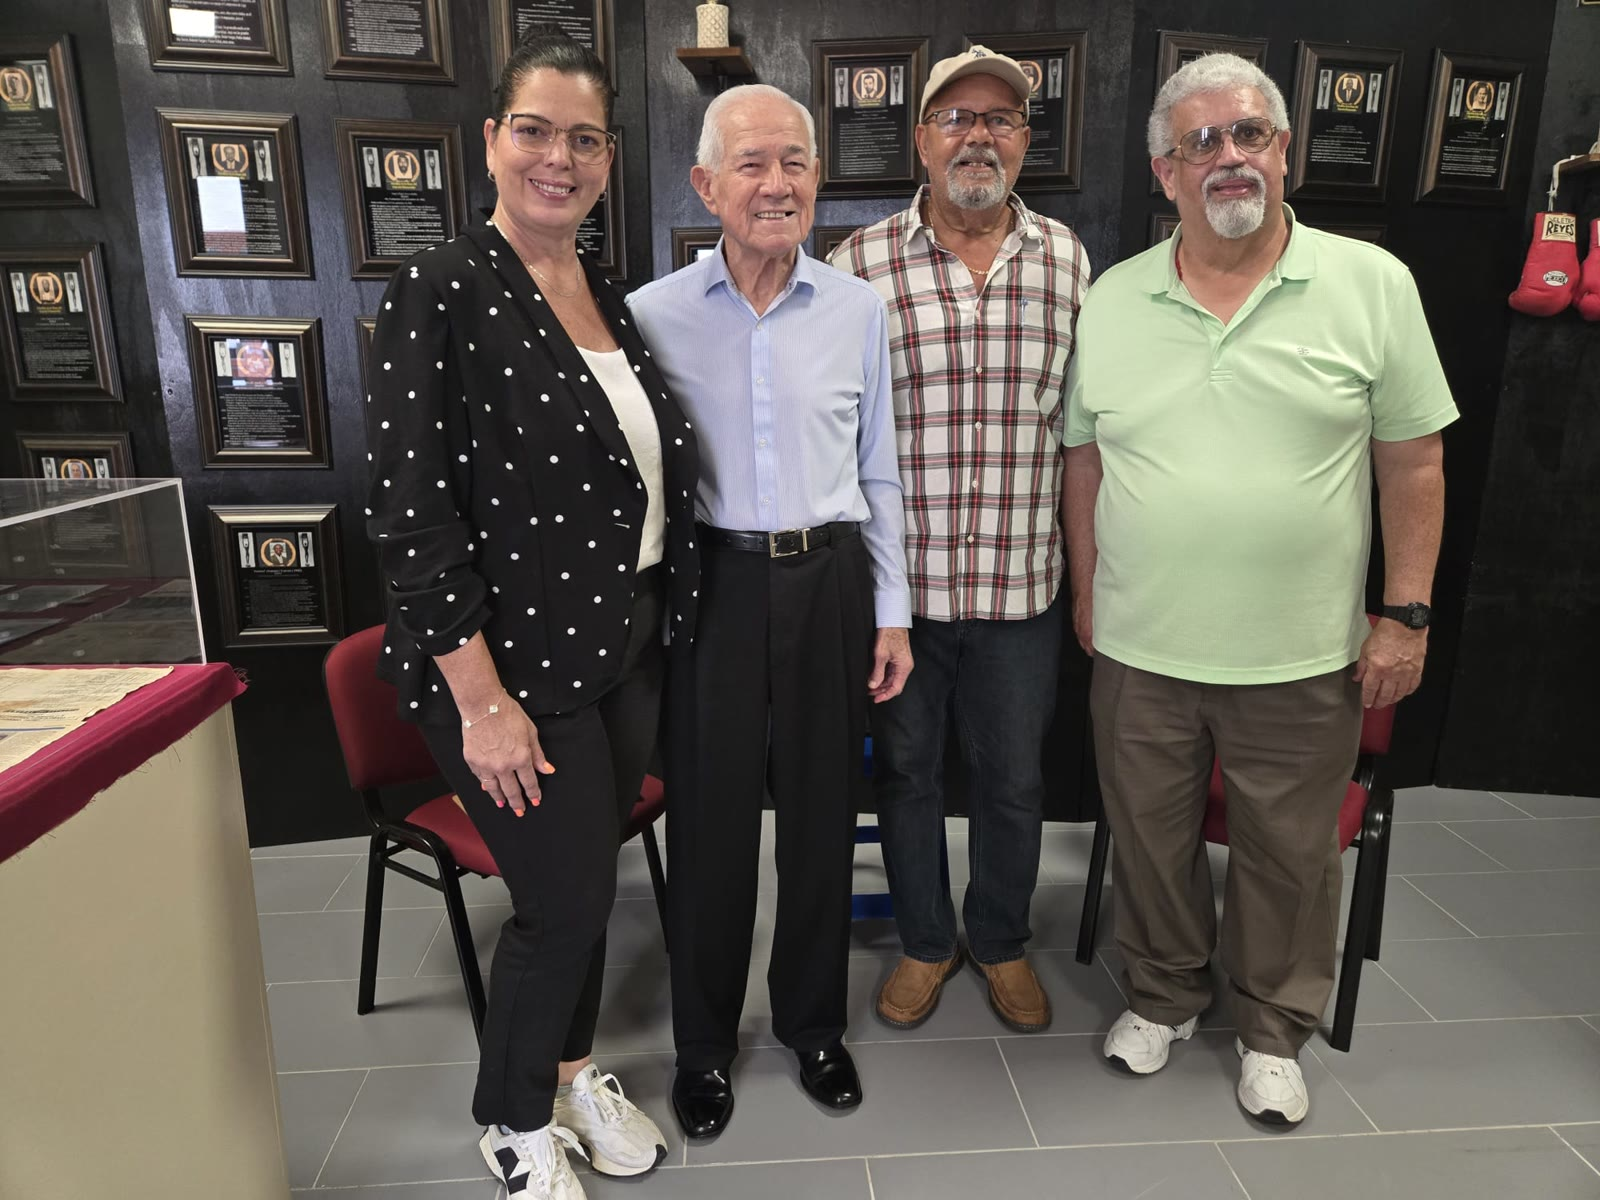
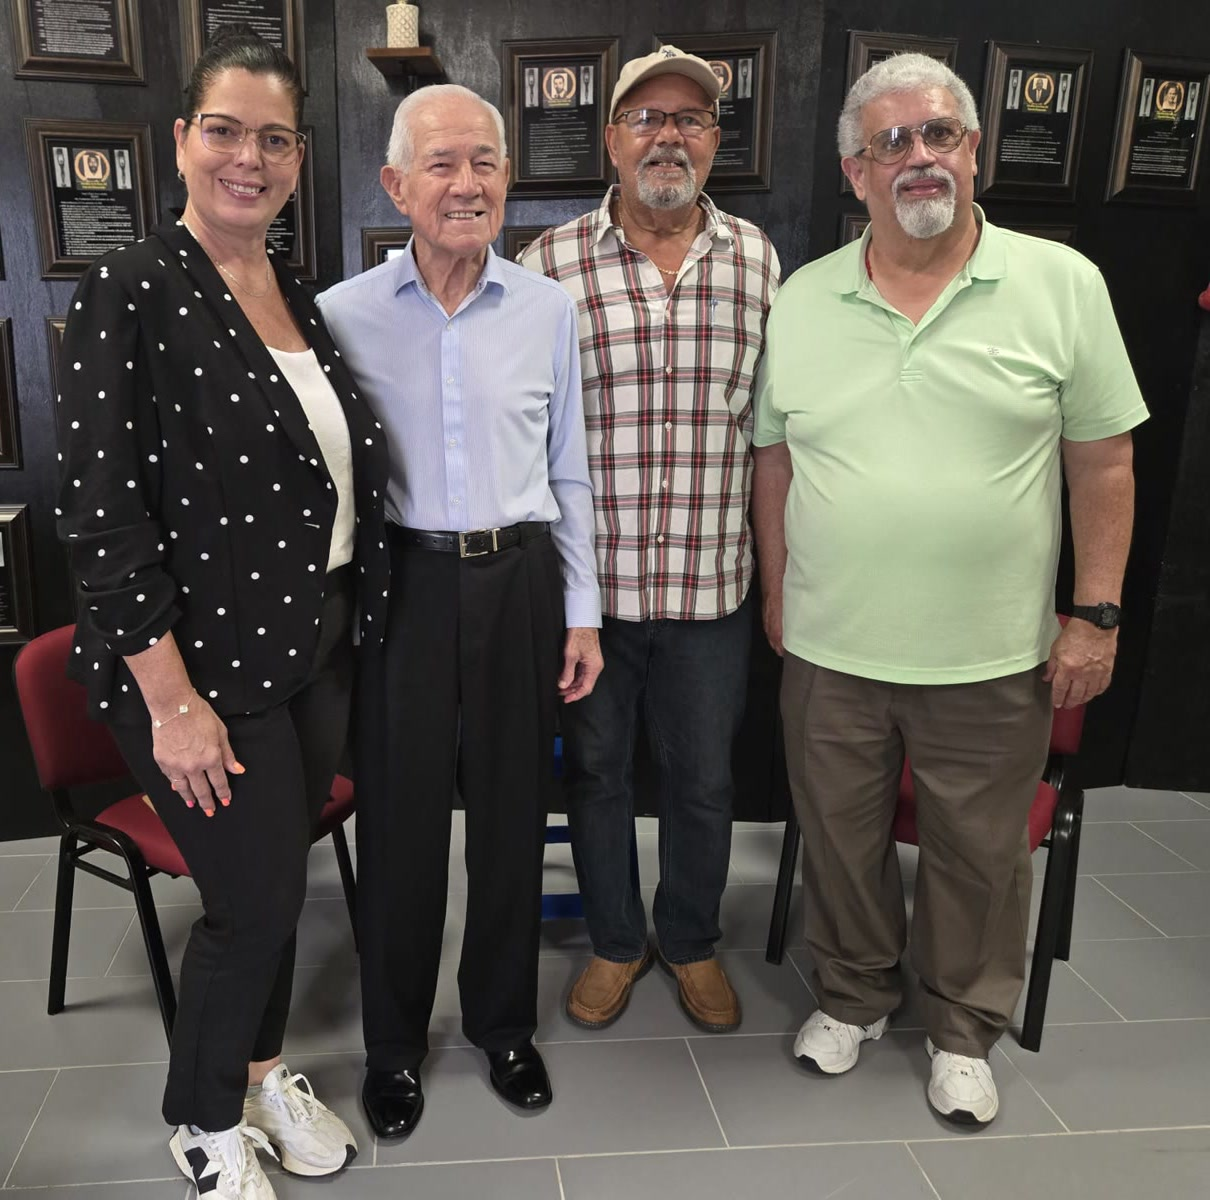
feat(museo): entrevista de Rafa Ocasio embebida en Visitas Distinguidas [RETAINER-MAINT]
- visitas.ts: youtubeId 7mxpxoJmi-g (https://youtu.be/7mxpxoJmi-g) en la entrada rafael-ocasio-2026 + caption extendido presentando la entrevista (ocho exaltaciones, softball de 1948, Grises de Humacao)
- docs/superpowers/specs: diseño aprobado del cierre de publicación PF-047

- crop a la foto

diff --git a/src/data/visitas.ts b/src/data/visitas.ts
@@ -25,10 +25,11 @@ export const visitas: Visita[] = [
     src: "/images/museo/visitas/2026-07-rafael-ocasio.jpg",
     alt: "Verónica Rivera, Rafael «Rafa» Ocasio, Quique Torres y Francisco Cintrón durante la visita al museo, frente a la pared de placas de exaltados",
     caption:
-      "Recibimos la visita de Rafael «Rafa» Ocasio, exaltado del Pabellón de la Fama del Deporte Humacaeño en 2012, en la 7ma Ceremonia de Exaltación, junto a su hermano Esteban. Rafa defendió a Humacao en el béisbol Doble A entre 1957 y 1960 — etapa que nuestro museo conserva en un recorte de El Imparcial titulado «Rafael Ocasio se retira». Le acompañaron Verónica Rivera, Quique Torres y Francisco Cintrón.",
+      "Recibimos la visita de Rafael «Rafa» Ocasio, exaltado del Pabellón de la Fama del Deporte Humacaeño en 2012, en la 7ma Ceremonia de Exaltación, junto a su hermano Esteban. Rafa defendió a Humacao en el béisbol Doble A entre 1957 y 1960 — etapa que nuestro museo conserva en un recorte de El Imparcial titulado «Rafael Ocasio se retira». Le acompañaron Verónica Rivera, Quique Torres y Francisco Cintrón. De aquella visita nació la entrevista que hoy compartimos: una conversación con Quique Torres sobre sus ocho exaltaciones, el softball de 1948 y los Grises de Humacao.",
     fecha: "14 de julio de 2026",
-    imageWidth: 1600,
+    imageWidth: 1210,
     imageHeight: 1200,
+    youtubeId: "7mxpxoJmi-g",
   },
   {
     id: "keishla-garcia-2026",

diff --git a/docs/superpowers/specs/2026-07-18-publicacion-rafa-design.md b/docs/superpowers/specs/2026-07-18-publicacion-rafa-design.md
@@ -1,0 +1,51 @@
+# Diseño · Publicación PF-047: handoff, cleanup, Visitas Distinguidas, playbook de edición
+**Fecha:** 2026-07-18 · **Aprobado por Mario** (chat, mismo día — incluye la adición de lessons learned)
+
+## Contexto
+El video de la entrevista a Rafael «Rafa» Ocasio está publicado: `https://youtu.be/7mxpxoJmi-g`
+(corte v10 aceptado, commit `cad3501` en pabellon-media). Cierre operativo + capitalizar lo aprendido.
+
+## Entregables
+
+### 1. Handoff al arquitecto
+`.project/coordination/HANDOFF-2026-07-18-supervisor-arquitecto-PF-047-publicacion.md`:
+video publicado, estado v10/commit, pendientes que pasan a su gestión (licencia música ‼,
+lista 8 pabellones y ortografías de Félix, srt corregido, design review rótulo Héctor,
+registro pabellon-media en protocol-manager, excepción .gitignore), anuncio de la
+actualización de Visitas y del playbook/skill nuevos.
+
+### 2. Cleanup (decidido por Mario vía AskUserQuestion)
+- `transfer/`: retirar SOLO lo consolidado, verificando destino antes de borrar.
+- `coordination/`: crear `archive/` y mover handoffs/reportes PF-047 ejecutados.
+- Kdenlive: borrar `v04_backup0.kdenlive` y `v05.kdenlive.srt` (0 bytes) del árbol —
+  ambos preservados en git (`cad3501`); nada necesario para recrear producción se pierde.
+
+### 3. Visitas Distinguidas (pabellon-fama)
+`src/data/visitas.ts`, entrada `rafael-ocasio-2026`:
+- `youtubeId: "7mxpxoJmi-g"` (el componente ya embebe vía youtube-nocookie, patrón Keishla).
+- Caption: conservar el actual + añadir: «De aquella visita nació la entrevista que hoy
+  compartimos: una conversación con Quique Torres sobre sus ocho exaltaciones, el softball
+  de 1948 y los Grises de Humacao.» (hechos verificados en dossier).
+- Validación: `npm run build` OK; pruebas de dispositivo (Android real + Chrome/Firefox
+  desktop) las hace Mario antes del deploy (AGENTS.md).
+- Clasificación: [RETAINER-MAINT] (contenido <2 hrs); señalado al arquitecto.
+
+### 4. Playbook de edición + lessons learned (adición de Mario)
+`pabellon-media/docs/PLAYBOOK-EDICION-VIDEO.md`: proceso completo de producir una edición
+(brief → fuentes → transcripción/dossier → paquete gráfico Claude Design/Playwright →
+proyecto Kdenlive generado → ciclo de edición GUI+merges → transiciones → publicación
+YouTube), con TODAS las lecciones técnicas de PF-047 y un checklist de arranque para la
+próxima entrevista. Es el documento que hace el proceso «better-than-before» y más rápido.
+
+### 5. Skill `/video-edicion`
+`~/.claude/skills/video-edicion/SKILL.md` (nivel usuario — disponible en cualquier sesión):
+al invocarla, carga el playbook y aplica sus protocolos (mtime, nombres canónicos, gates).
+La integración en protocol-manager server (config.ts) es acción admin → va en el handoff.
+
+## Fuera de alcance
+Deploy del sitio (Mario), render/re-subida del video, corrección de subtítulos, Pasada C.
+
+## Commits
+Dos, al final, con autorización explícita de Mario:
+- pabellon-media: playbook + metadata YouTube v02 + cleanup de residuos.
+- pabellon-fama: visitas.ts + handoff + archive/ + este spec.
